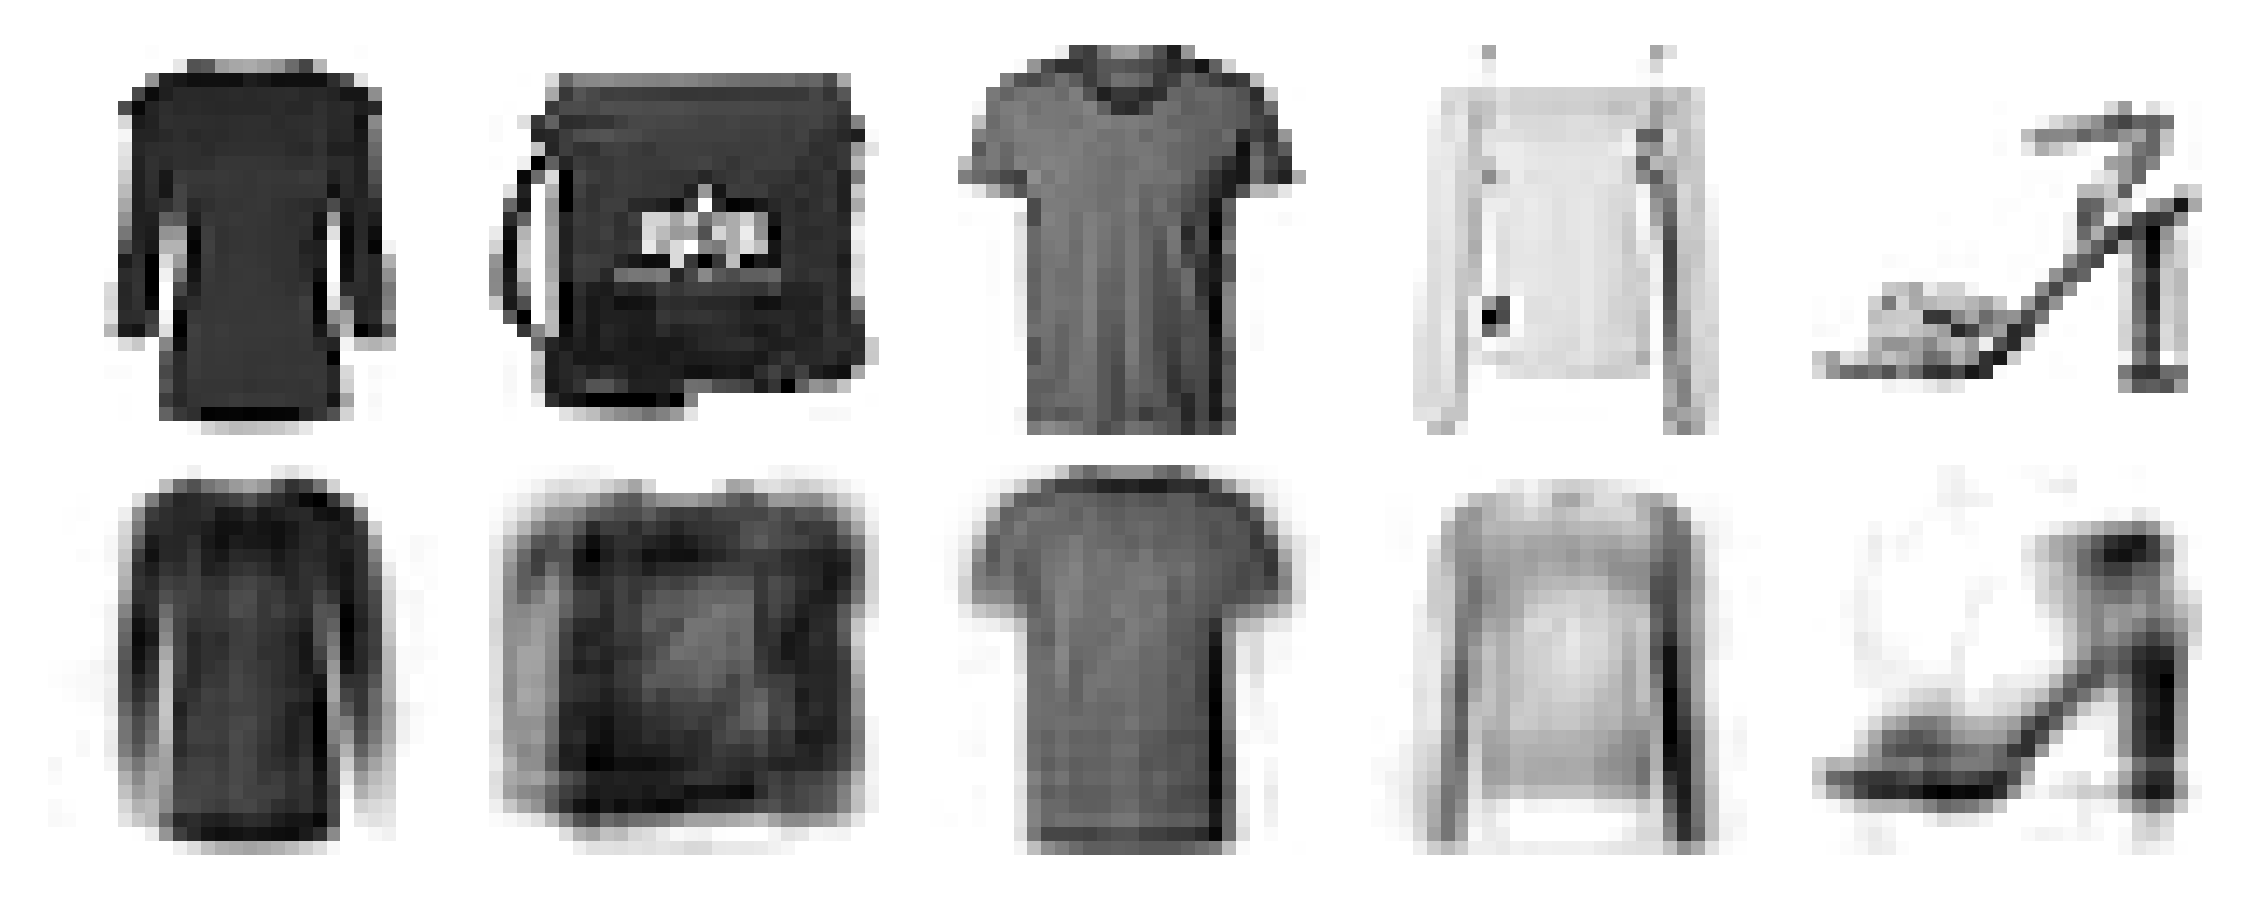
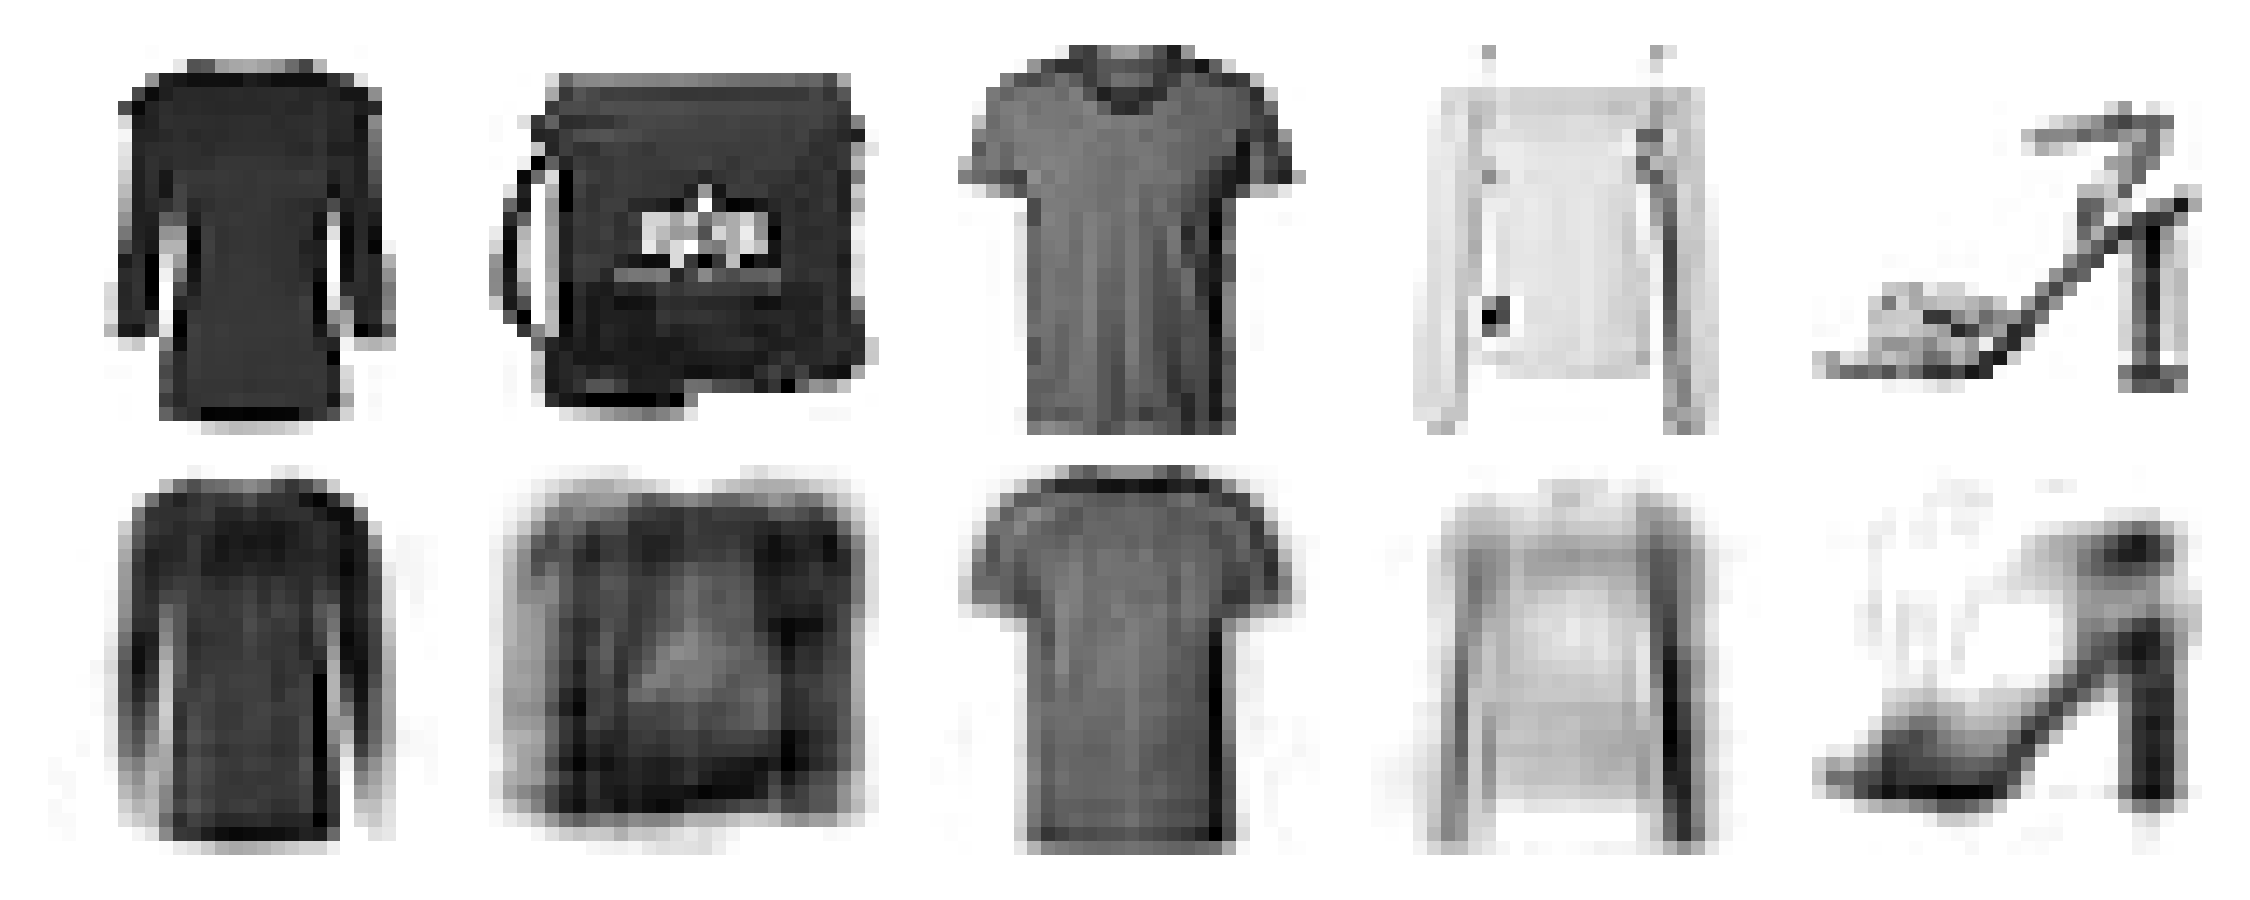
sparse AE

diff --git a/source/ch3-vae/ae/tf/sparse_ae_v2.py b/source/ch3-vae/ae/tf/sparse_ae_v2.py
@@ -1,0 +1,100 @@
+import os
+import numpy as np
+import tensorflow as tf
+import matplotlib.pyplot as plt
+import argparse
+from stacked_ae import X_train, X_valid, plot_reconstructions, save_fig
+
+"""
+Model: "sequential_5"
+_________________________________________________________________
+ Layer (type)                Output Shape              Param #   
+=================================================================
+ sequential_3 (Sequential)   (None, 300)               108800    
+                                                                 
+ sequential_4 (Sequential)   (None, 28, 28)            109284    
+                                                                 
+=================================================================
+Total params: 218,084
+Trainable params: 218,084
+Non-trainable params: 0
+_________________________________________________________________
+"""
+def create_sparse_l1_autoencoder():
+    encoder = tf.keras.Sequential([
+        tf.keras.layers.Flatten(),
+        tf.keras.layers.Dense(100, activation="relu"),
+        tf.keras.layers.Dense(300, activation="sigmoid"),
+        tf.keras.layers.ActivityRegularization(l1=1e-4)
+    ])
+    decoder = tf.keras.Sequential([
+        tf.keras.layers.Dense(100, activation="relu"),
+        tf.keras.layers.Dense(28 * 28),
+        tf.keras.layers.Reshape([28, 28])
+    ])
+    autoencoder = tf.keras.Sequential([encoder, decoder])
+    return autoencoder
+
+def train_autoencoder(autoencoder, X_train, X_valid, checkpoint_path, epochs=10):
+    autoencoder.compile(loss="mse", optimizer="nadam")
+    checkpoint_callback = tf.keras.callbacks.ModelCheckpoint(
+        filepath=checkpoint_path,
+        save_weights_only=True,
+        save_best_only=True,
+        monitor='val_loss',
+        verbose=1
+    )
+    history = autoencoder.fit(X_train, X_train, epochs=epochs,
+                              validation_data=(X_valid, X_valid),
+                              callbacks=[checkpoint_callback])
+    return history
+
+def plot_sparsity_loss():
+    p = 0.1
+    q = np.linspace(0.001, 0.999, 500)
+    kl_div = p * np.log(p / q) + (1 - p) * np.log((1 - p) / (1 - q))
+    mse = (p - q) ** 2
+    mae = np.abs(p - q)
+    plt.plot([p, p], [0, 0.3], "k:")
+    plt.text(0.05, 0.32, "Target\nsparsity", fontsize=14)
+    plt.plot(q, kl_div, "b-", label="KL divergence")
+    plt.plot(q, mae, "g--", label=r"MAE ($\ell_1$)")
+    plt.plot(q, mse, "r--", linewidth=1, label=r"MSE ($\ell_2$)")
+    plt.legend(loc="upper left", fontsize=14)
+    plt.xlabel("Actual sparsity")
+    plt.ylabel("Cost", rotation=0)
+    plt.axis([0, 1, 0, 0.95])
+    plt.grid(True)
+    save_fig("sparsity_loss_plot")
+    plt.show()
+
+def main(checkpoint_path, epochs):
+    sparse_l1_ae = create_sparse_l1_autoencoder()
+    sparse_l1_ae.compile(loss="mse", optimizer="nadam")
+
+    # Build the model by running a forward pass
+    sparse_l1_ae.build(input_shape=(None, 28, 28))
+    sparse_l1_ae.summary()
+
+    if os.path.exists(checkpoint_path):
+        print("Loading model from checkpoint...")
+        sparse_l1_ae.load_weights(checkpoint_path)
+    else:
+        train_autoencoder(sparse_l1_ae, X_train, X_valid, checkpoint_path, epochs)
+
+    plot_reconstructions(sparse_l1_ae)
+    save_fig("sparse_ae")
+    plt.show()
+
+    plot_sparsity_loss()
+
+if __name__ == "__main__":
+    parser = argparse.ArgumentParser(description="Train and evaluate a sparse L1 autoencoder.")
+    parser.add_argument("--checkpoint_path", type=str, default="sparse_l1_ae_checkpoint.h5", help="Path to save/load the model checkpoint")
+    parser.add_argument("--epochs", type=int, default=20, help="Number of epochs to train the model")
+    args = parser.parse_args()
+
+    try:
+        main(args.checkpoint_path, args.epochs)
+    except Exception as e:
+        print(f"An error occurred: {e}")

diff --git a/source/ch3-vae/ae/tf/stacked_ae.py b/source/ch3-vae/ae/tf/stacked_ae.py
@@ -1,5 +1,7 @@
 from config import *
 
+
+
 # extra code – loads, scales, and splits the fashion MNIST dataset
 fashion_mnist = tf.keras.datasets.fashion_mnist.load_data()
 (X_train_full, y_train_full), (X_test, y_test) = fashion_mnist
@@ -20,9 +22,6 @@ stacked_decoder = tf.keras.Sequential([
 ])
 stacked_ae = tf.keras.Sequential([stacked_encoder, stacked_decoder])
 
-stacked_ae.compile(loss="mse", optimizer="nadam")
-history = stacked_ae.fit(X_train, X_train, epochs=20,
-                         validation_data=(X_valid, X_valid))
 
 def plot_reconstructions(model, images=X_valid, n_images=5):
     reconstructions = np.clip(model.predict(images[:n_images]), 0, 1)
@@ -35,13 +34,20 @@ def plot_reconstructions(model, images=X_valid, n_images=5):
         plt.imshow(reconstructions[image_index], cmap="binary")
         plt.axis("off")
 
-plot_reconstructions(stacked_ae)
-save_fig("reconstruction_plot")  # extra code – saves the high res figure
-plt.show()
+if __name__ == "__main__":
+    stacked_ae.compile(loss="mse", optimizer="nadam")
+    history = stacked_ae.fit(X_train, X_train, epochs=20,
+                             validation_data=(X_valid, X_valid))
 
 
-# Save the stacked encoder
-encoder_path = Path("saved_models/stacked_encoder")
-encoder_path.mkdir(parents=True, exist_ok=True)
-stacked_encoder.save(encoder_path / "stacked_encoder")
+
+    plot_reconstructions(stacked_ae)
+    save_fig("reconstruction_plot")  # extra code – saves the high res figure
+    plt.show()
+
+
+    # Save the stacked encoder
+    encoder_path = Path("saved_models/stacked_encoder")
+    encoder_path.mkdir(parents=True, exist_ok=True)
+    stacked_encoder.save(encoder_path / "stacked_encoder")
 

diff --git a/source/ch3-vae/ae/torch/sparse_ae_kl.py b/source/ch3-vae/ae/torch/sparse_ae_kl.py
@@ -6,7 +6,7 @@ import matplotlib.pyplot as plt
 import argparse
 import os
 import torch.nn.functional as F
-from data import load_data, generate_sparsity_plot, plot_reconstructions
+from data import load_data, generate_sparsity_plot#, plot_reconstructions
 
 
 class KLDivergenceRegularizer:
@@ -84,6 +84,29 @@ def train(model, criterion, optimizer, train_loader, val_loader, num_epochs, che
 
     return train_losses, valid_losses
 
+
+def plot_reconstructions(model, test_loader, n_images=5):
+    model.eval()
+    with torch.no_grad():
+        # Get a batch of images from the test_loader
+        images, _ = next(iter(test_loader))
+        images = images[:n_images]
+
+        # Get the reconstructions
+        reconstructions = model(images)
+
+        # Clip the reconstructions to the range [0, 1]
+        reconstructions = torch.clamp(reconstructions, 0, 1)
+
+        fig = plt.figure(figsize=(n_images * 1.5, 3))
+        for image_index in range(n_images):
+            plt.subplot(2, n_images, 1 + image_index)
+            plt.imshow(images[image_index].cpu().numpy().reshape(28, 28))
+            plt.axis("off")
+            plt.subplot(2, n_images, 1 + n_images + image_index)
+            plt.imshow(reconstructions[image_index].cpu().numpy().reshape(28, 28))
+            plt.axis("off")
+        plt.show()
 
 def main(args):
     # Load datasets

diff --git a/source/ch3-vae/ae/torch/data.py b/source/ch3-vae/ae/torch/data.py
@@ -72,3 +72,27 @@ def plot_reconstructions(model, test_loader):
             axes[1].set_title('Reconstructed')
             plt.show()
             break
+
+
+def plot_reconstructions(model, test_loader, n_images=5):
+    model.eval()
+    with torch.no_grad():
+        # Get a batch of images from the test_loader
+        images, _ = next(iter(test_loader))
+        images = images[:n_images]
+
+        # Get the reconstructions
+        reconstructions = model(images)
+
+        # Clip the reconstructions to the range [0, 1]
+        reconstructions = torch.clamp(reconstructions, 0, 1)
+
+        fig = plt.figure(figsize=(n_images * 1.5, 3))
+        for image_index in range(n_images):
+            plt.subplot(2, n_images, 1 + image_index)
+            plt.imshow(images[image_index].cpu().numpy().reshape(28, 28), cmap="binary")
+            plt.axis("off")
+            plt.subplot(2, n_images, 1 + n_images + image_index)
+            plt.imshow(reconstructions[image_index].cpu().numpy().reshape(28, 28), cmap="binary")
+            plt.axis("off")
+        plt.show()

diff --git a/source/ch3-vae/ae/torch/sparse_ae_l1.py b/source/ch3-vae/ae/torch/sparse_ae_l1.py
@@ -4,9 +4,20 @@ import torch.optim as optim
 import argparse
 import os
 from data import load_data, generate_sparsity_plot, plot_reconstructions
+from hiq import print_model
+
 
 
 class SparseL1Autoencoder(nn.Module):
+    """
+    🌳 SparseL1Autoencoder<all params:218084>
+    ├── Sequential(encoder)
+    │   ├── Linear(1)|weight[100,784]|bias[100]
+    │   └── Linear(3)|weight[300,100]|bias[300]
+    └── Sequential(decoder)
+        ├── Linear(0)|weight[100,300]|bias[100]
+        └── Linear(2)|weight[784,100]|bias[784]
+    """
     def __init__(self):
         super(SparseL1Autoencoder, self).__init__()
         self.encoder = nn.Sequential(
@@ -77,6 +88,7 @@ def main(args):
 
     # Instantiate the model
     model = SparseL1Autoencoder()
+    print_model(model)
 
     # Load checkpoint if available
     checkpoint_path = f"{args.dataset}_sparse_l1.pth"

diff --git a/source/ch3-vae/ae/tf/config.py b/source/ch3-vae/ae/tf/config.py
@@ -1,7 +1,7 @@
 import sys
 import os
 assert sys.version_info >= (3, 7)
-
+import argparse
 from packaging import version
 import sklearn
 
